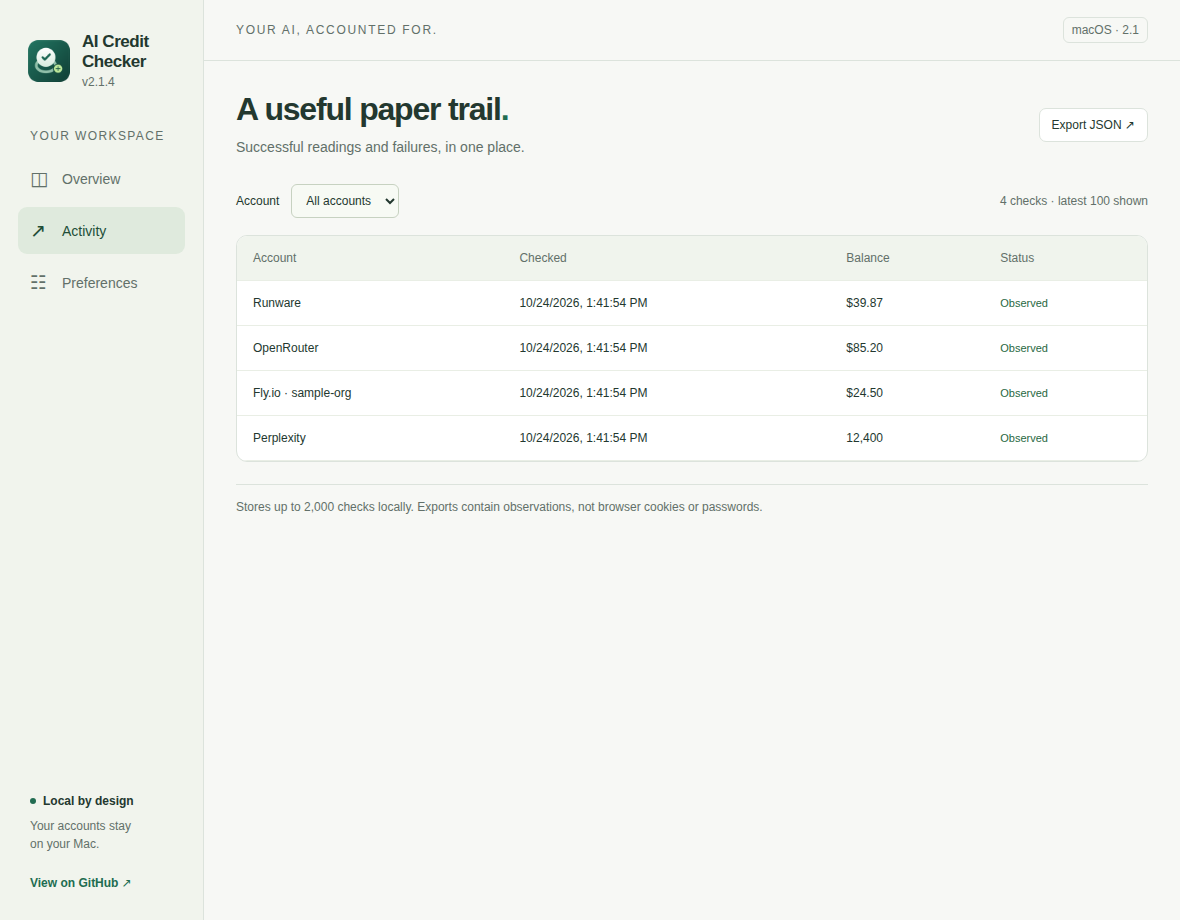
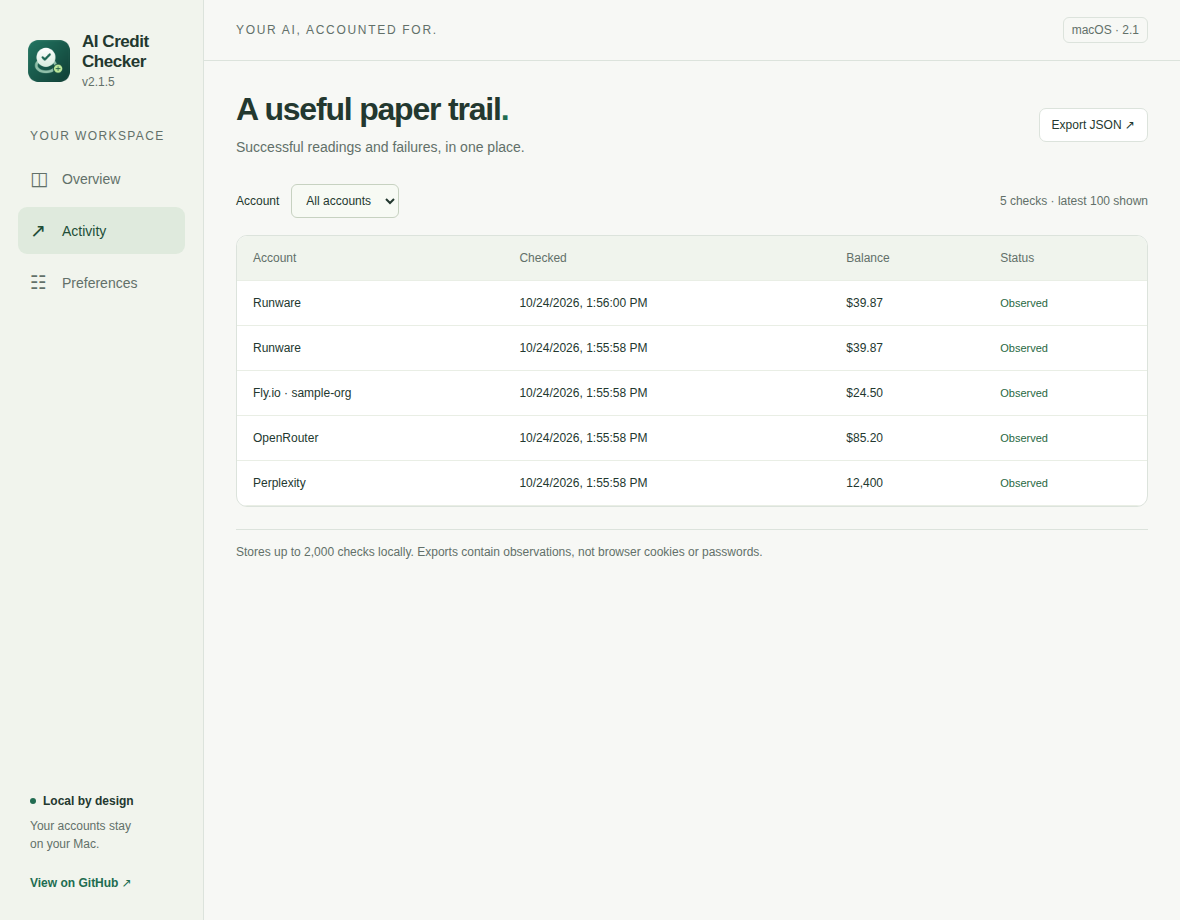
Release 2.1.5: read closed account windows with an offscreen reader

diff --git a/INSTALL.md b/INSTALL.md
@@ -1,10 +1,10 @@
-# Install AI Credit Checker 2.1.4
+# Install AI Credit Checker 2.1.5
 
 This release is a standalone Apple Silicon Mac app. There is no extension, Stream Deck component, local server or Terminal-based installer.
 
 ## Install
 
-1. Download `AI-Credit-Checker-2.1.4-macOS-arm64.zip` from the GitHub release.
+1. Download `AI-Credit-Checker-2.1.5-macOS-arm64.zip` from the GitHub release.
 2. Extract the ZIP and move **AI Credit Checker.app** to Applications.
 3. Open it. This build is ad-hoc signed, not Developer ID signed or notarized. If macOS blocks opening, review the notice in **System Settings → Privacy & Security** and use **Open Anyway** if offered and you choose to trust the build.
 4. If macOS says the app is damaged, or an organization policy blocks it, stop and report the exact message. Do not disable Gatekeeper, remove quarantine with Terminal commands or bypass management policies.
@@ -51,7 +51,7 @@ Enable **Open at login** in Preferences if desired. It is off by default and use
 
 ## App updates via GitHub
 
-The updater is available in **2.1.1 and later**. Use **Preferences → Check for updates → Download & restart** to install 2.1.4. From an older version, install the latest ZIP manually once.
+The updater is available in **2.1.1 and later**. Use **Preferences → Check for updates → Download & restart** to install 2.1.5. From an older version, install the latest ZIP manually once.
 
 The updater checks the public repository's latest stable release about 15 seconds after launch and every six hours while running. Disable automatic checks in Preferences if desired; manual **Check for updates** remains available there and in the native menu.
 
@@ -83,7 +83,7 @@ To remove the app, first disable Open at login and quit it, then remove it from 
 
 **Fly.io:** Save the correct organization slug before opening its account page. The parser reads “Credit Balance,” not invoice totals or remaining active-credit entries.
 
-**Runware:** Open [Billing](https://runware.ai/settings/billing) and select the intended workspace. The parser reads “Available balance” in the Inference credits card, not “Spent this month.” The old “Current Balance” label remains supported. Full observed precision is retained; the dashboard and menu intentionally display two decimals. Version 2.1.3 fixes the old `/wallet` route being rejected after Runware redirects it to Billing. Existing login sessions are retained.
+**Runware:** Open [Billing](https://runware.ai/settings/billing) and select the intended workspace. The parser reads “Available balance” in the Inference credits card, not “Spent this month.” The old “Current Balance” label remains supported. Full observed precision is retained; the dashboard and menu intentionally display two decimals. Version 2.1.3 fixes the old `/wallet` route being rejected after Runware redirects it to Billing. Version 2.1.5 fixes checks after the Runware window is closed: closed-window checks now use a temporary offscreen reader on the same saved login. Existing login sessions are retained.
 
 **Login blocked:** Follow the provider's supported sign-in flow. If embedded browsers are refused, stop; this app does not copy sessions from another browser or bypass SSO policy.
 

diff --git a/docs/RELEASE-2.1.5.md b/docs/RELEASE-2.1.5.md
@@ -1,0 +1,21 @@
+# AI Credit Checker 2.1.5
+
+Fixes balance checks after an account window is closed. In 2.1.4, Runware worked only while its window stayed open.
+
+## Fixed
+
+- **Closed account windows:** Closing an account window hides it, and Chromium then stops rendering that page. Runware's Billing page builds its balance in the browser, so the hidden page never displayed it, causing "Available-credit label not found."
+- Checks for a closed window now load the page in a temporary, invisible offscreen reader that uses the same saved login, then discard it. A visible account window is still read directly.
+- The change applies to all four providers. Runware's route, label and monthly-spend handling from 2.1.3 and 2.1.4 are unchanged.
+
+## Update
+
+On **2.1.1 or later**, use **Preferences → Check for updates → Download & restart**. For a manual install, quit the app and replace it in Applications with the app from `AI-Credit-Checker-2.1.5-macOS-arm64.zip`. Sessions, preferences and history are retained; you do not need to sign in again.
+
+This remains an Apple Silicon, ad-hoc-signed build, not Developer ID signed or notarized.
+
+## Validation
+
+- A standalone Electron probe, run without automation, reproduces the bug: a shown-then-hidden window does not render a client-side page, while the offscreen reader does. It runs in CI and on the macOS release runner.
+- The Electron suite opens and closes the Runware window, checks a client-rendered Billing fixture, and asserts a temporary offscreen reader was used and destroyed. The previous code fails this test.
+- All 15 unit tests and the full Electron suite pass. Fixtures are synthetic; the first check after closing the live Runware window remains a user acceptance check.

diff --git a/docs/VALIDATION.md b/docs/VALIDATION.md
@@ -1,5 +1,13 @@
 # Release validation
 
+## Version 2.1.5
+
+The user reported that Runware succeeded only while its account window was open. Closing an account window hides it. A standalone Electron probe without automation attached showed a shown-then-hidden window stops running animation frames, so a client-rendered fixture stayed on its loading state; a never-shown offscreen window rendered it. This matches the reported "Available-credit label not found" error with the window closed.
+
+Closed-window checks now use a temporary offscreen reader on the same persistent session partition, destroyed after each check; a visible window is read directly. `tests/hidden-render.cjs` runs the probe in CI and on the macOS release runner. The Electron suite renders the Runware fixture through animation frames, opens and closes its window, checks it, and asserts a single offscreen reader was created and destroyed. With the previous `main.cjs`, that assertion fails.
+
+Playwright-attached hidden pages keep rendering, which masked this bug in earlier fixture tests. Live Runware collection after closing the window remains a user acceptance check.
+
 ## Versions 2.1.3 and 2.1.4
 
 Runware now redirects the old `/wallet` URL to `/settings/billing`, as reported by the user. Their screenshot shows “Available balance” in an “Inference credits” card, with “Spent this month” nearby. The old URL guard and old-only label explain two independent incompatibilities.

diff --git a/CHANGELOG.md b/CHANGELOG.md
@@ -2,6 +2,18 @@
 
 User-facing changes by release, newest first. Dates use UTC publication dates; validation notes describe the evidence available for that release.
 
+## 2.1.5 · 2026-10-24
+
+### Fixed
+
+- **Checks after closing an account window:** Runware worked only while its window stayed open. A window that has been shown and then closed is hidden, and Chromium stops rendering it; Runware's Billing page renders its balance client-side, so the hidden page never showed it. Checks for a closed window now use a temporary offscreen reader on the same saved session, then destroy it. A visible window is still read directly. Applies to all four providers.
+
+### Validation
+
+- **Root cause reproduced:** Without automation attached, a shown-then-hidden Electron window did not render a client-side fixture; an offscreen reader did. `tests/hidden-render.cjs` runs this probe in CI and on the macOS release runner.
+- **Regression:** The Electron suite opens and closes the Runware window, then checks a client-rendered Billing fixture and asserts a temporary offscreen reader was used and cleaned up. The old code fails this test.
+- Playwright keeps attached hidden windows rendering, which is why earlier fixture tests passed. The live check after closing the Runware window remains a user acceptance check.
+
 ## 2.1.4 · 2026-10-24
 
 ### Fixed

diff --git a/README.md b/README.md
@@ -21,7 +21,7 @@ Sign in to each provider's real website inside the app, then choose which counte
 
 ## Install or update
 
-1. Download **AI-Credit-Checker-2.1.4-macOS-arm64.zip** from the [latest release](https://github.com/paulfxyz/ai-credit-checker/releases/latest). If you are replacing an existing installation, quit it first.
+1. Download **AI-Credit-Checker-2.1.5-macOS-arm64.zip** from the [latest release](https://github.com/paulfxyz/ai-credit-checker/releases/latest). If you are replacing an existing installation, quit it first.
 2. Extract the ZIP and move **AI Credit Checker.app** to Applications.
 3. For Fly.io, save the organization slug from your billing URL. Use **Open account** to sign in to each provider you want to track, then **Check now** to verify its balance.
 4. Select your menu-bar counters and a **10, 30 or 60-minute** balance-check interval. Close the provider windows and enable automatic checks.
